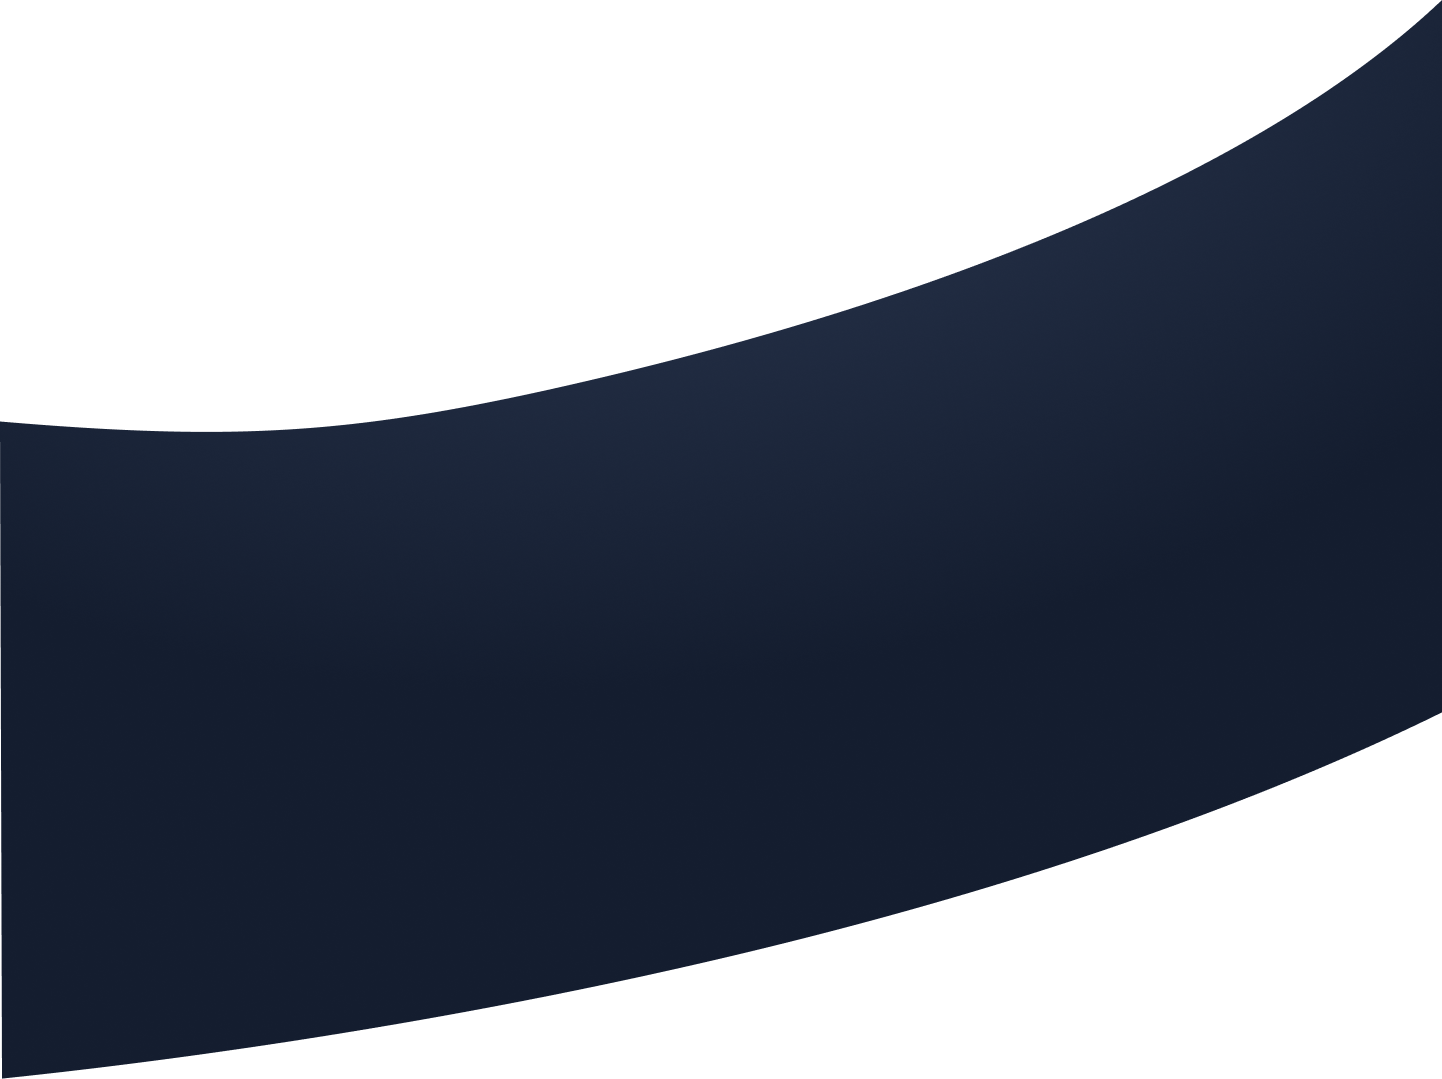
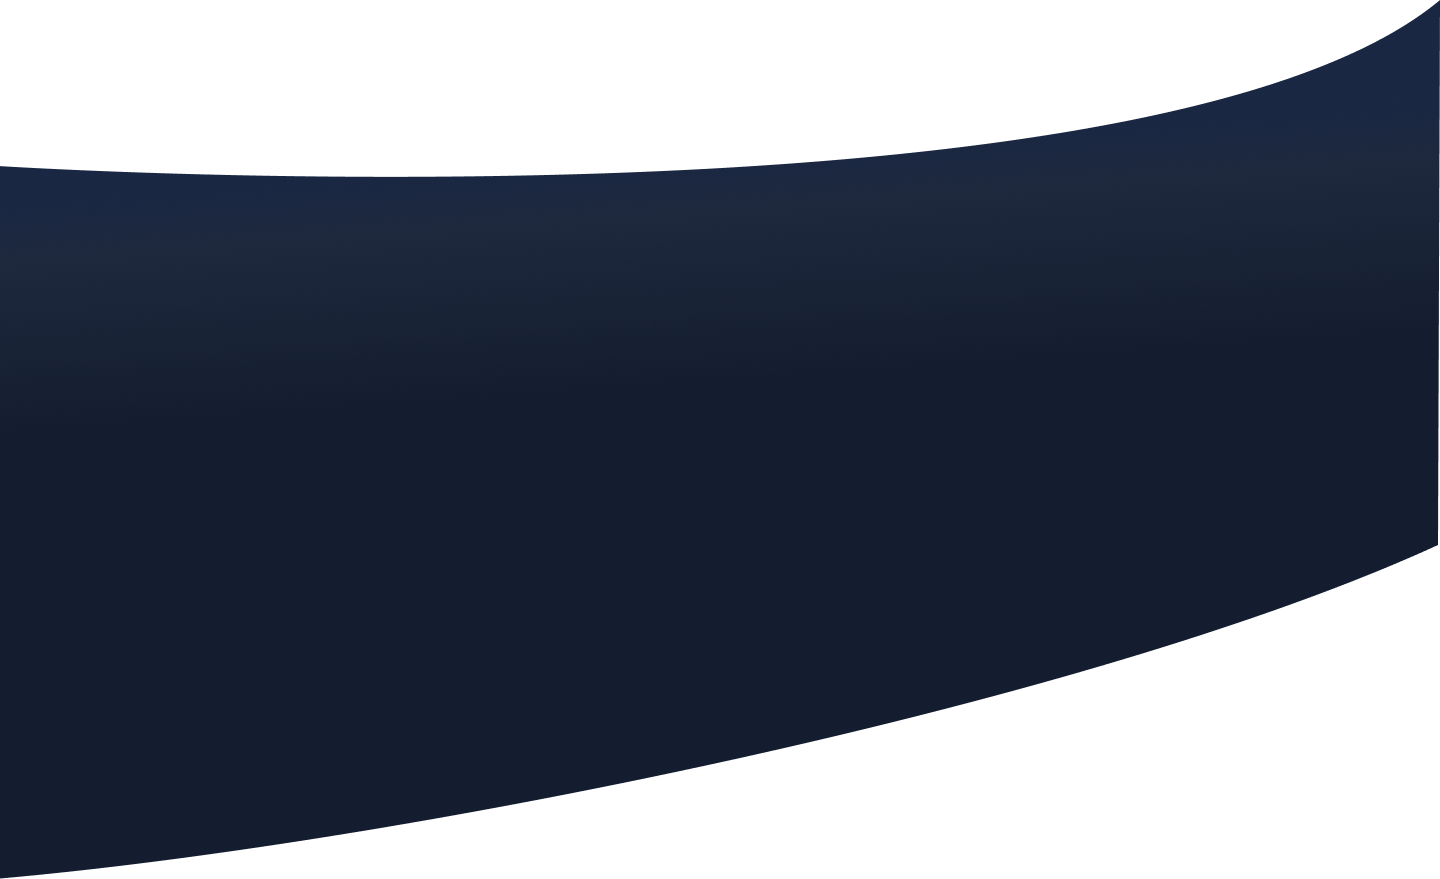
top-section responsive

diff --git a/src/app/top-section/top-section.component.scss b/src/app/top-section/top-section.component.scss
@@ -3,13 +3,11 @@
     justify-content: space-between;
     color: white;
     padding-right: 100px;
-    margin-top: 180px;
+    margin-top: 140px;
     // z-index: 2;
-    // position: relative;
+    position: relative;
 
     .my-img {
-        position: absolute;
-        top: 100px;
         height: 705px;
         width: 530px;
         object-fit: cover;
@@ -19,13 +17,16 @@
     .bg-img {
         width: 690px;
         height: 671px;
+        position: absolute;
+        top: 50px;
+        z-index: -1;
     }
 }
 
 .my-name {
     display: flex;
     align-items: center;
-    margin-top: 200px;
+    margin-top: 300px;
 
     .rotate {
         transform: rotate(-90deg);
@@ -94,10 +95,10 @@
     position: relative;
 }
 
-.bg-image {
+.bg-shadow {
     position: absolute;
     width: 100vw;
-    top: -526px;
+    top: -280px;
 }
 
 .bottom-links {
@@ -140,9 +141,11 @@
             0% {
                 transform: translateY(20px);
             }
+
             50% {
                 transform: translateY(50px);
             }
+
             100% {
                 transform: translateY(20px);
             }
@@ -225,10 +228,10 @@
         transition: all 225ms ease-in-out;
 
         &:hover {
-            color: #fa7902; 
+            color: #fa7902;
             font-size: 30px;
             transition: all 225ms ease-in-out;
-          }
+        }
     }
 }
 
@@ -248,6 +251,10 @@
         h2 {
             font-size: 45px;
         }
+    }
+
+    .bg-shadow {
+        top: -240px;
     }
 }
 
@@ -281,4 +288,72 @@
             line-height: 19px;
         }
     }
-} 
+
+    .bg-shadow {
+        top: -200px;
+    }
+}
+
+@media(max-width: 1200px) {
+
+    .my-img {
+        width: 450px !important;
+        height: 500px !important;
+        padding-top: 100px;
+    }
+
+    .bg-shadow {
+        top: -180px !important;
+    }
+}
+
+@media(max-width: 1000px) {
+    .main {
+        flex-direction: column;
+        align-items: center;
+        margin-top: 90px;
+        padding: unset;
+        justify-content: unset;
+
+        .bg-img {
+            width: 650px;
+            height: 500px;
+            top: 65px;
+        }
+
+        .my-img {
+            padding-left: 0 !important;
+            padding-top: 55px;
+            width: 400px !important;
+            height: 440px !important;
+        }
+    }
+
+    .right-section {
+        margin: unset;
+        padding-top: 20px;
+
+        .my-name {
+            margin: unset;
+        }
+    }
+
+    .scroll-down {
+        display: none;
+    }
+
+    .email {
+        display: none;
+    }
+
+    .bottom-content {
+
+        .bg-shadow {
+        top: -310px !important;
+        }
+
+        .bottom-links {
+            padding-top: 40px;
+        }
+    }
+}

diff --git a/src/app/top-section/top-section.component.html b/src/app/top-section/top-section.component.html
@@ -22,7 +22,7 @@
 </div>
 
 <div class="bottom-content">
-    <img class="bg-image" src="../../assets/img/top-section-shadow.png">
+    <img class="bg-shadow" src="../../assets/img/top-section-shadow.png">
     <div class="bottom-links">
         <div class="links">
             <div class="red-line"></div>

diff --git a/src/styles.scss b/src/styles.scss
@@ -2,7 +2,7 @@
 
 html, body {
     height: 100%; 
-    width: 100vw;
+    // width: 100vw;
 }
 body { 
     margin: 0; 
